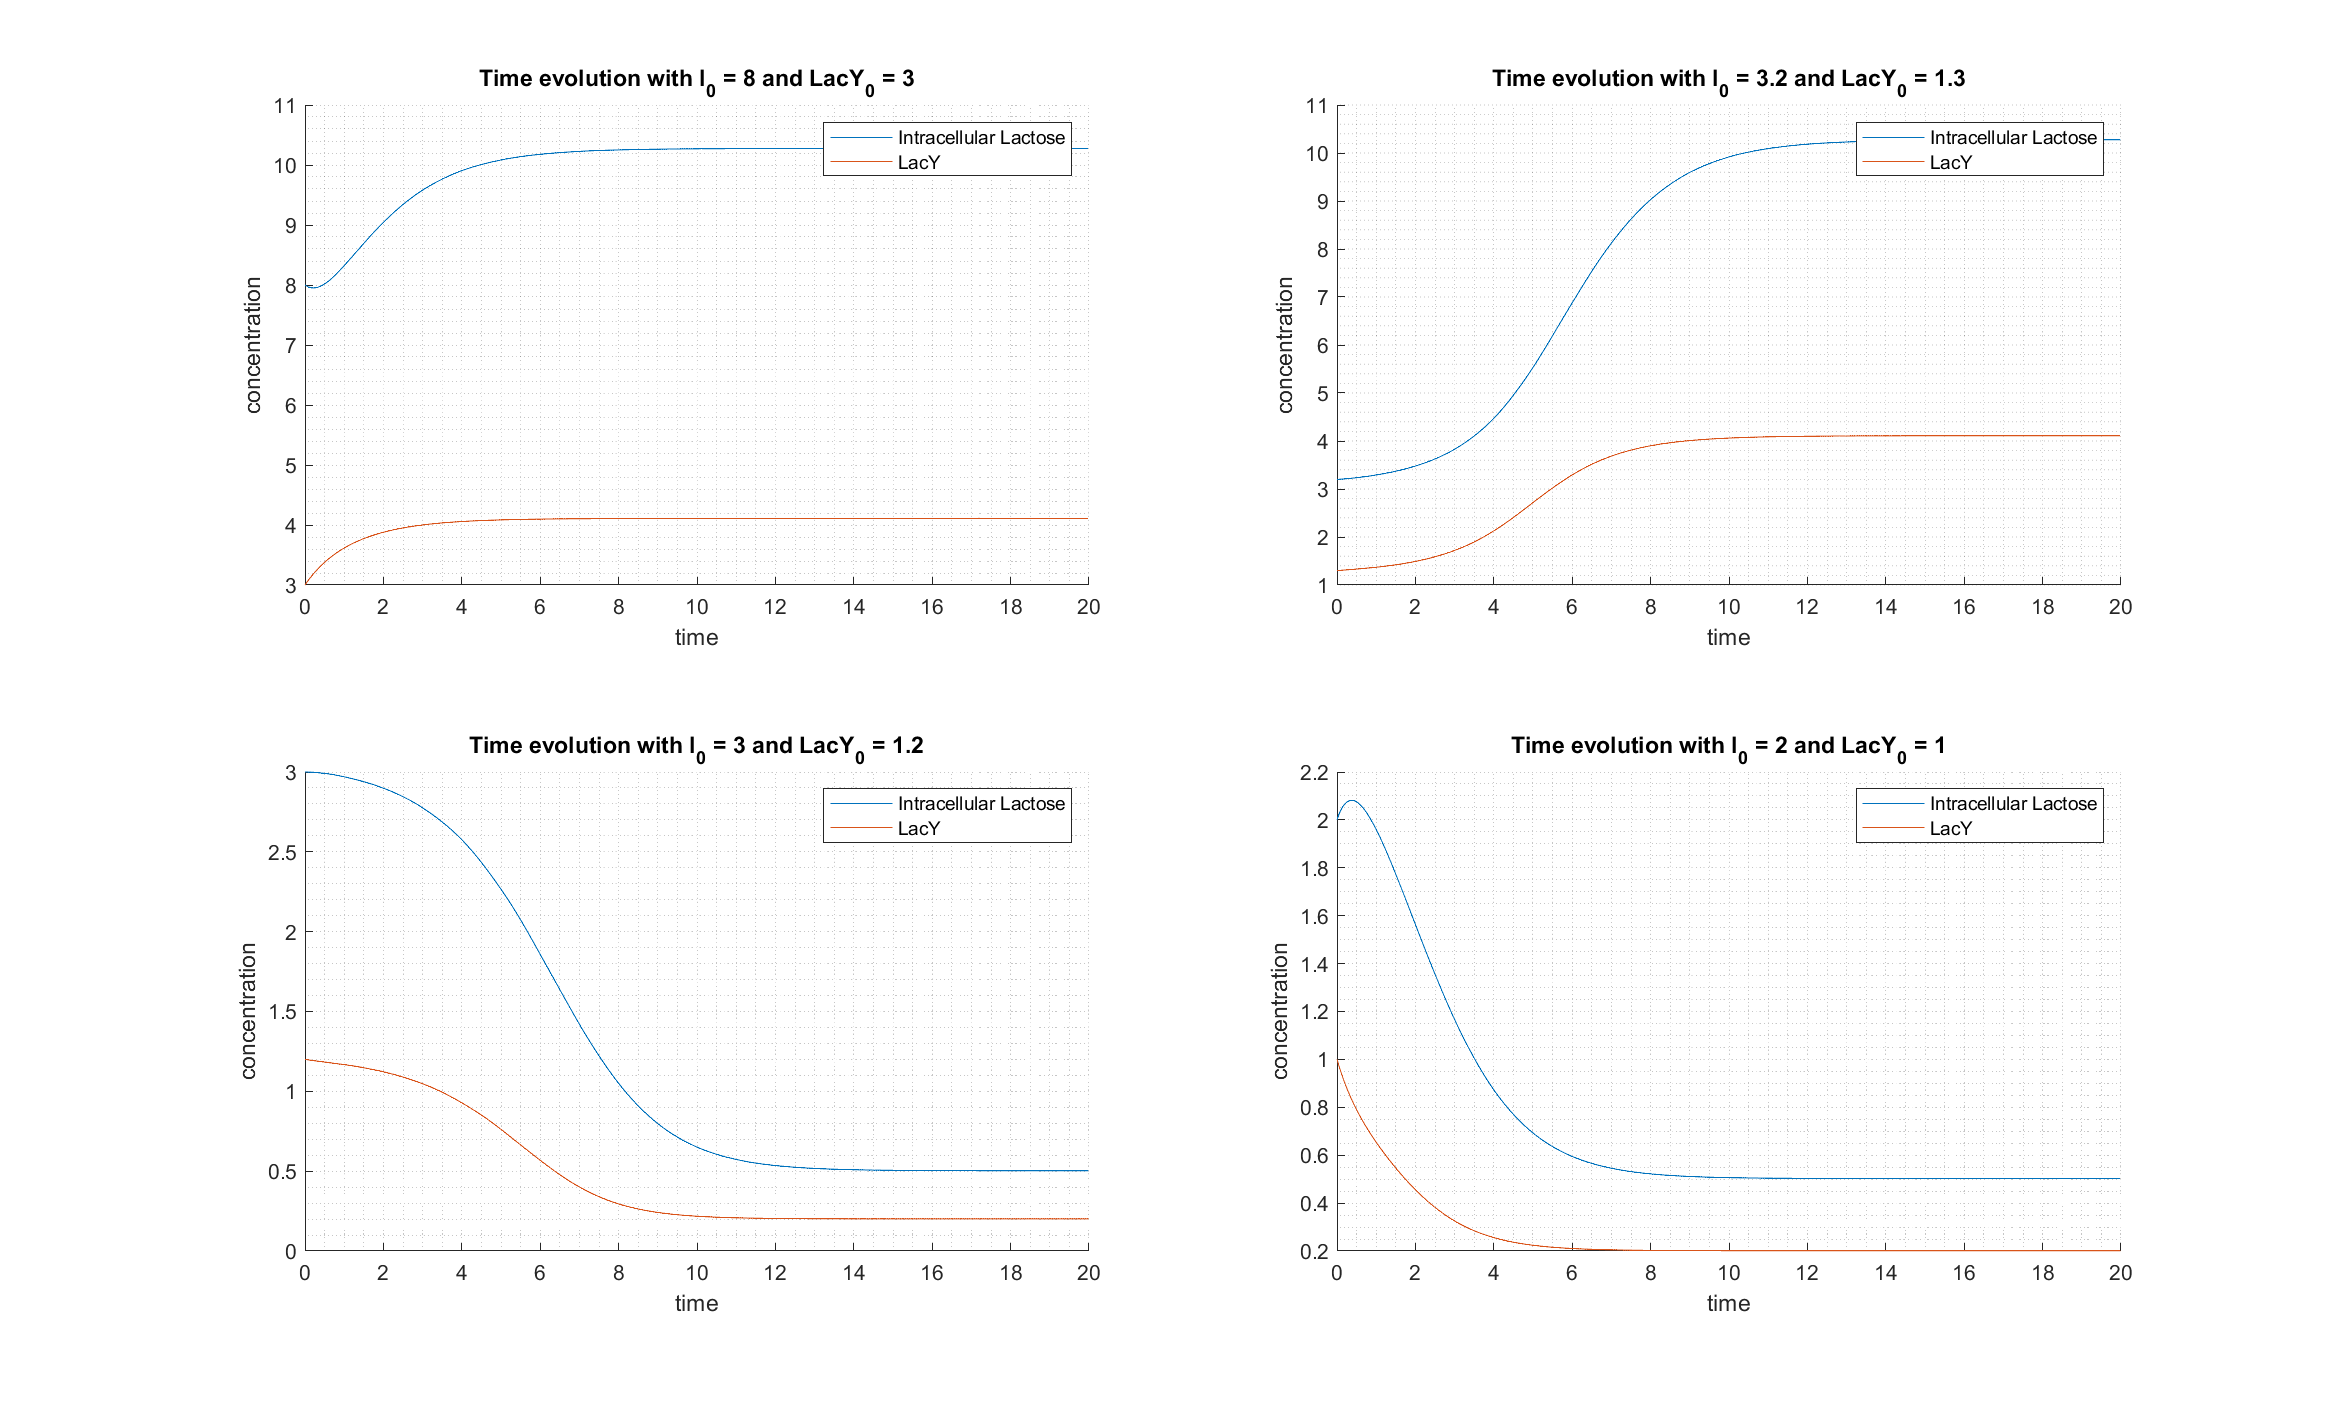
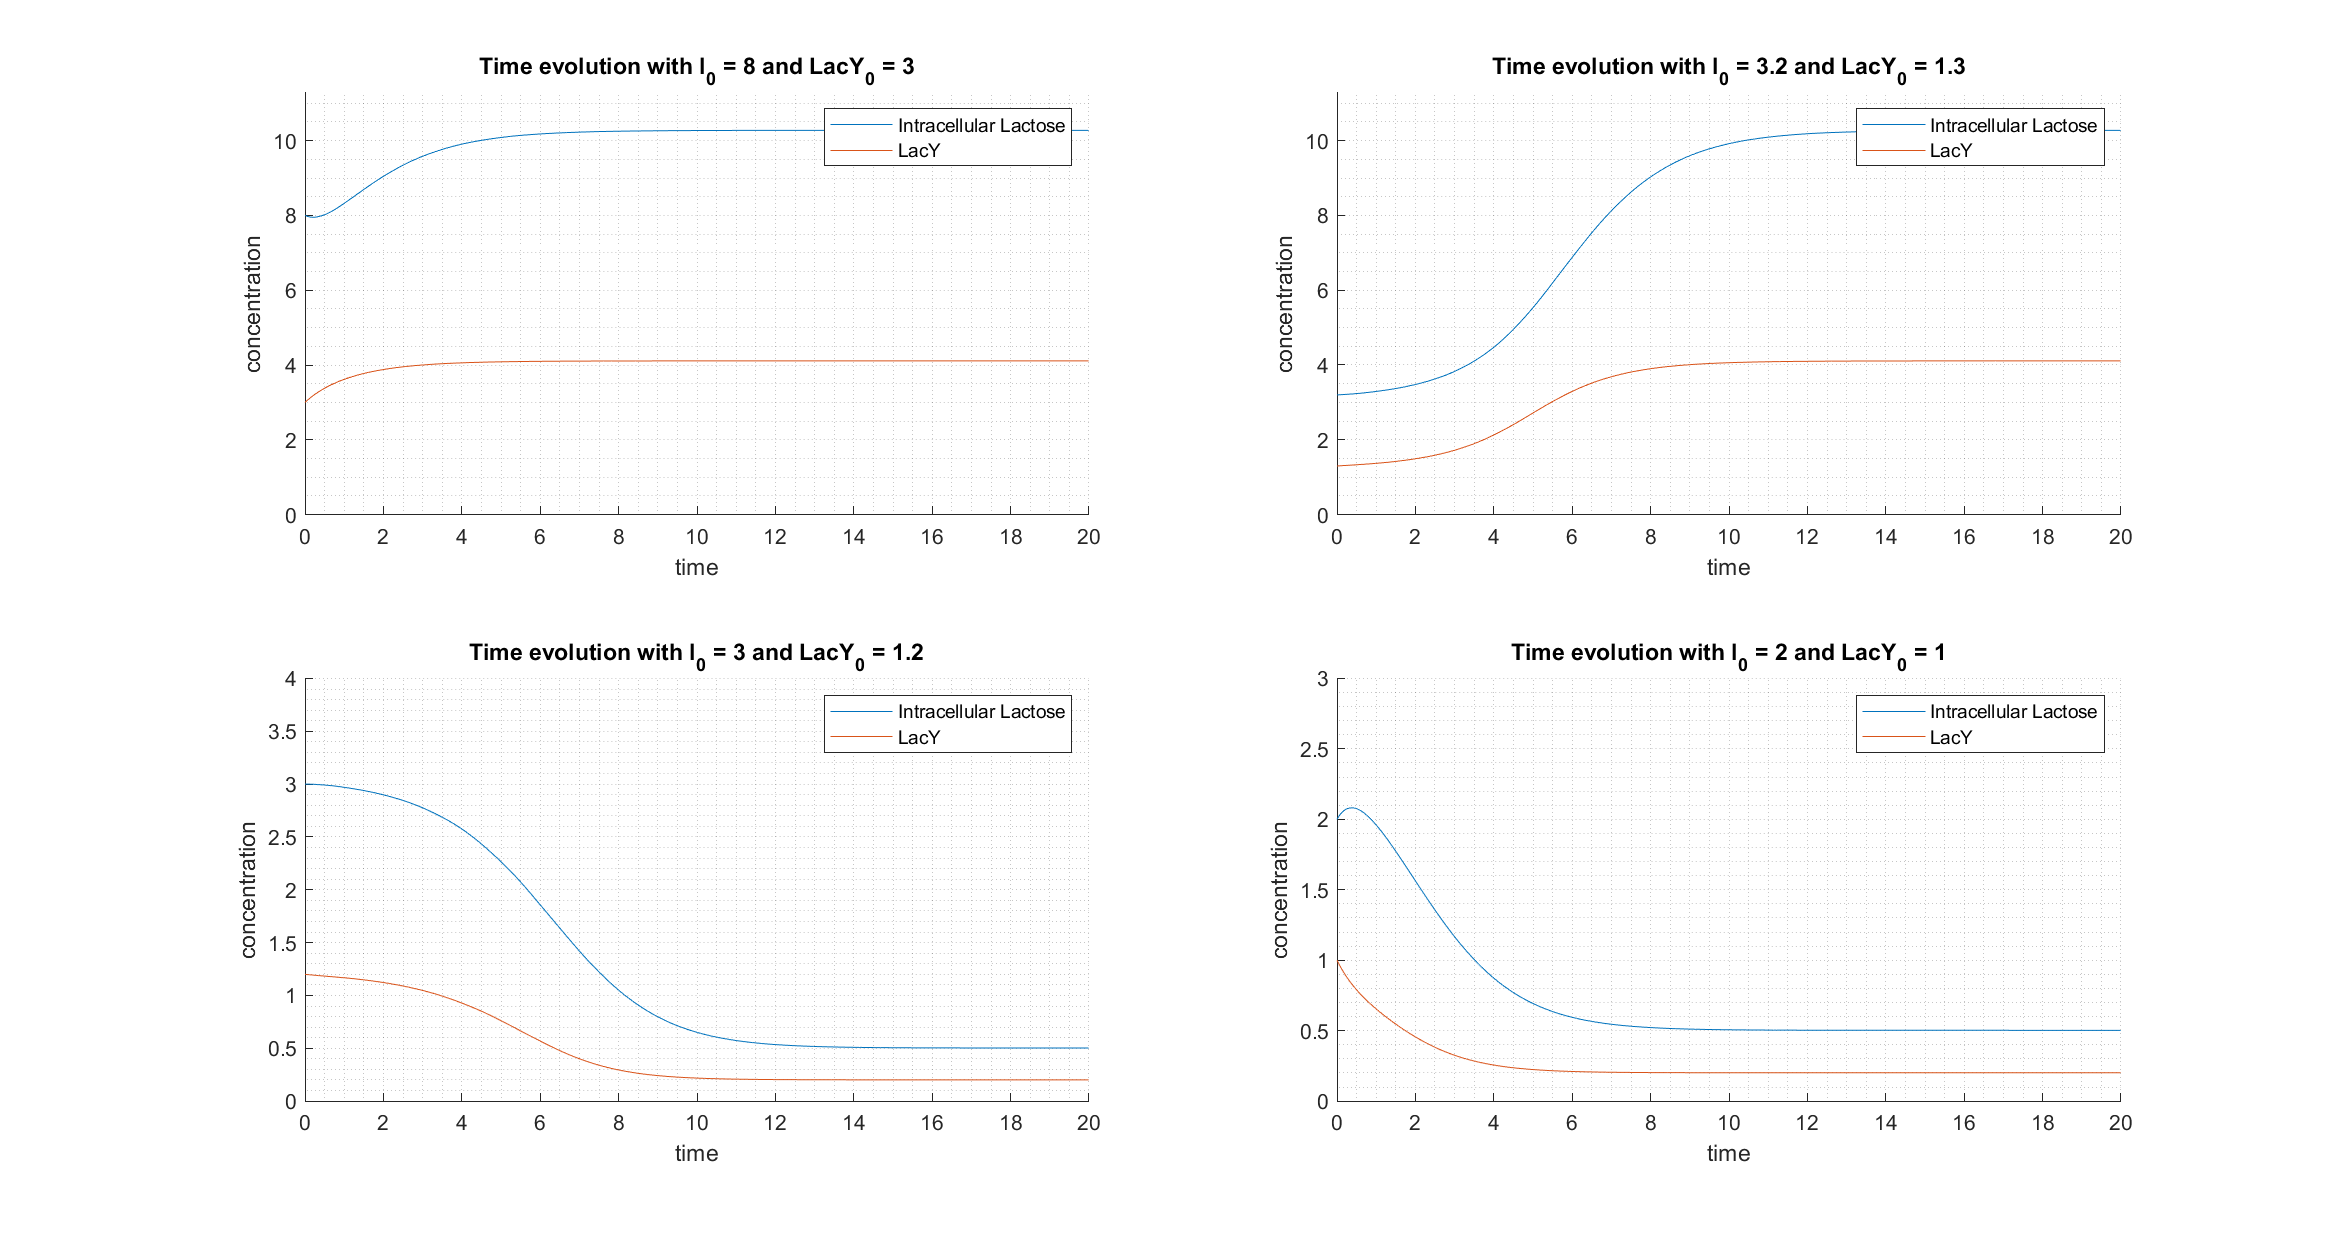
Setting ylimit of evolutions plot from 0 to max+1

diff --git a/biosys_project_minimal_model.m b/biosys_project_minimal_model.m
@@ -32,7 +32,8 @@ hold on
 grid minor
 for ii = 1:min(length(l_list), length(LacY_list))
     subplot(min(length(l_list), length(LacY_list))/2,2,ii)
-    plot_t_evo(tspan, set_x0(l_list(ii), LacY_list(ii)), options, par,1);
+    [last_l, last_LacY] = plot_t_evo(tspan, set_x0(l_list(ii), LacY_list(ii)), options, par,1);
+    ylim([0 max(max(last_l, last_LacY), max(l_list(ii), LacY_list(ii)))+1])
 end
 
 set(gcf,'Position',[10 10 1500 900])
@@ -44,9 +45,12 @@ final_LacY21 = [];
 
 for i = 1:length(lext_list)
     par.lext = lext_list(i);
+    
+    [final_l_83, final_LacY_83] = plot_t_evo(tspan, set_x0(8, 3), options, par,0);
+    [final_l_21, final_LacY_21] = plot_t_evo(tspan, set_x0(2, 1), options, par,0);
 
-    final_LacY83 = [final_LacY83 plot_t_evo(tspan, set_x0(8, 3), options, par,0)];
-    final_LacY21 = [final_LacY21 plot_t_evo(tspan, set_x0(2, 1), options, par,0)];
+    final_LacY83 = [final_LacY83 final_LacY_83];
+    final_LacY21 = [final_LacY21 final_LacY_21];
     
 end
 
@@ -149,7 +153,7 @@ function x0 = set_x0(l_init, LacY0)
 x0 = [l_init, LacY0];
 end
 
-function last_LacY = plot_t_evo(tspan, x0, options, par, want_plot)
+function [last_l, last_LacY] = plot_t_evo(tspan, x0, options, par, want_plot)
 [t,x] = ode45(@diff_eq,tspan,x0,options,par);
 l = x(:, 1);
 LacY = x(:, 2);
@@ -166,4 +170,5 @@ if want_plot == 1
 end
 
 last_LacY = LacY(end);
+last_l = l(end);
 end
